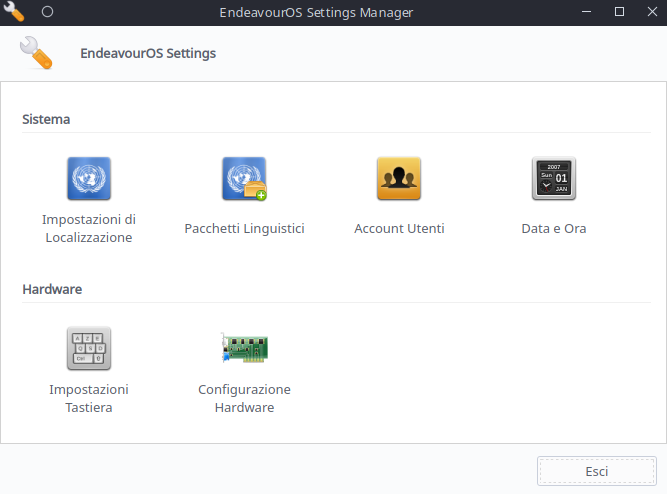
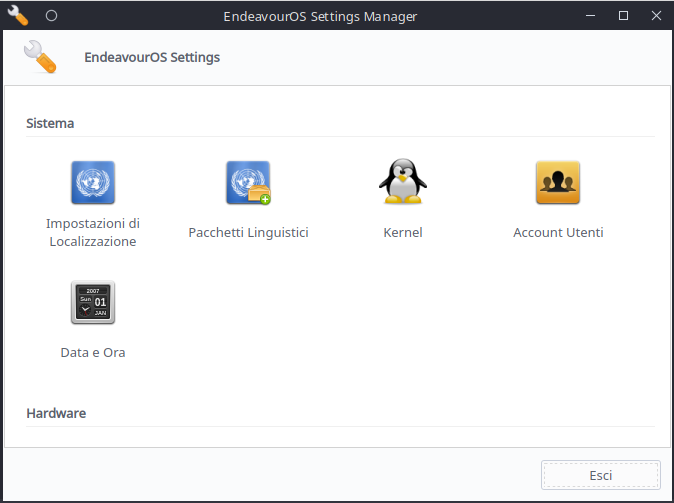
update readme and screenshot

diff --git a/README.md b/README.md
@@ -27,6 +27,9 @@ We install the EndeavorOS Settings Manager
 
 # EOS settings managaer
 ![eos_settings_manager](/screenshot_theme/eos_settings_manager.png)
+## EOS Kernel manager
+![eos_settings_manager1](/screenshot_theme/eos_settings_manager1.png)
+## EOS kcm module plasma
 ![eos_settings_manager](/screenshot_theme/eos_settings_manager_plasma.png)
 
 # Deepin 
